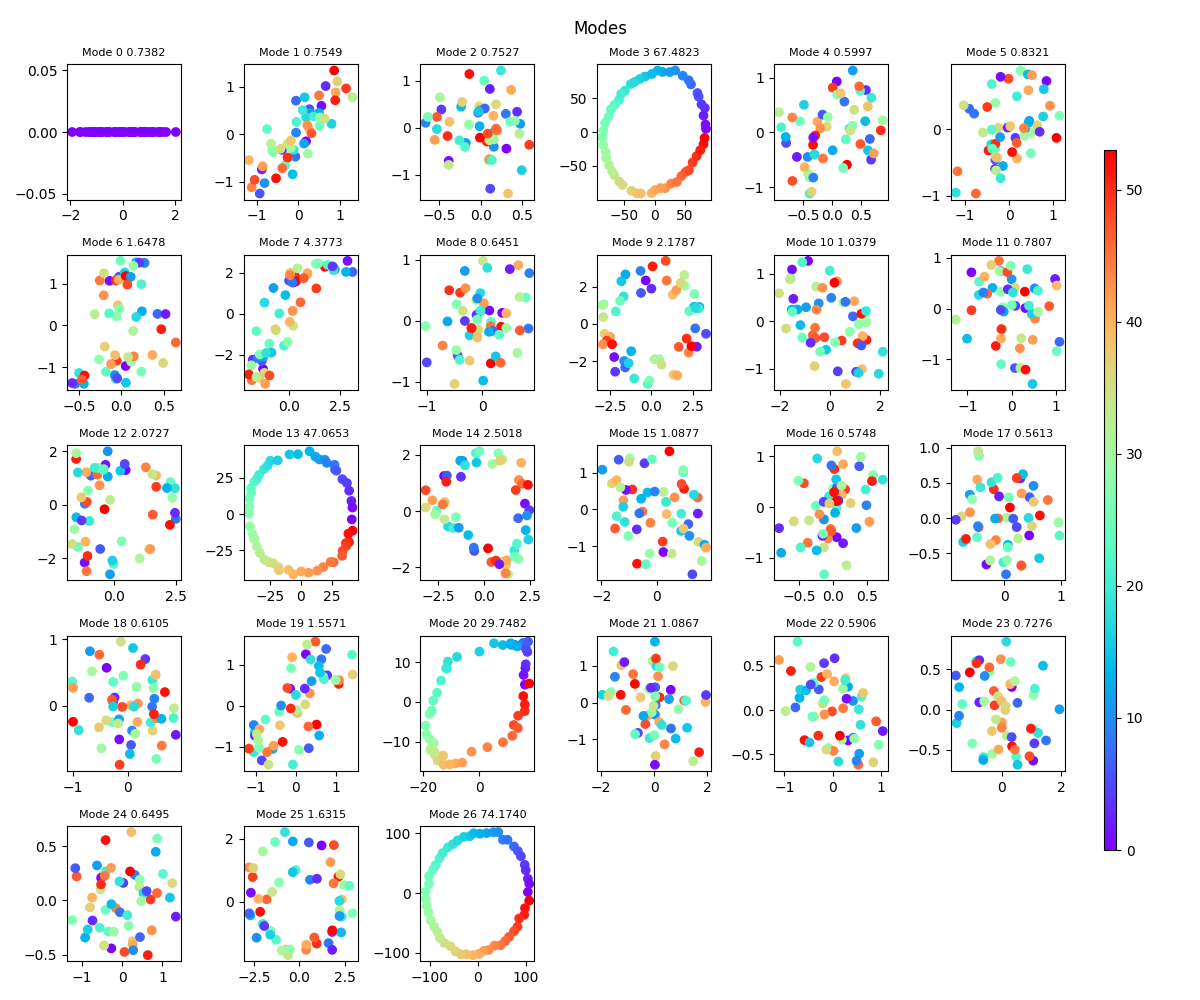
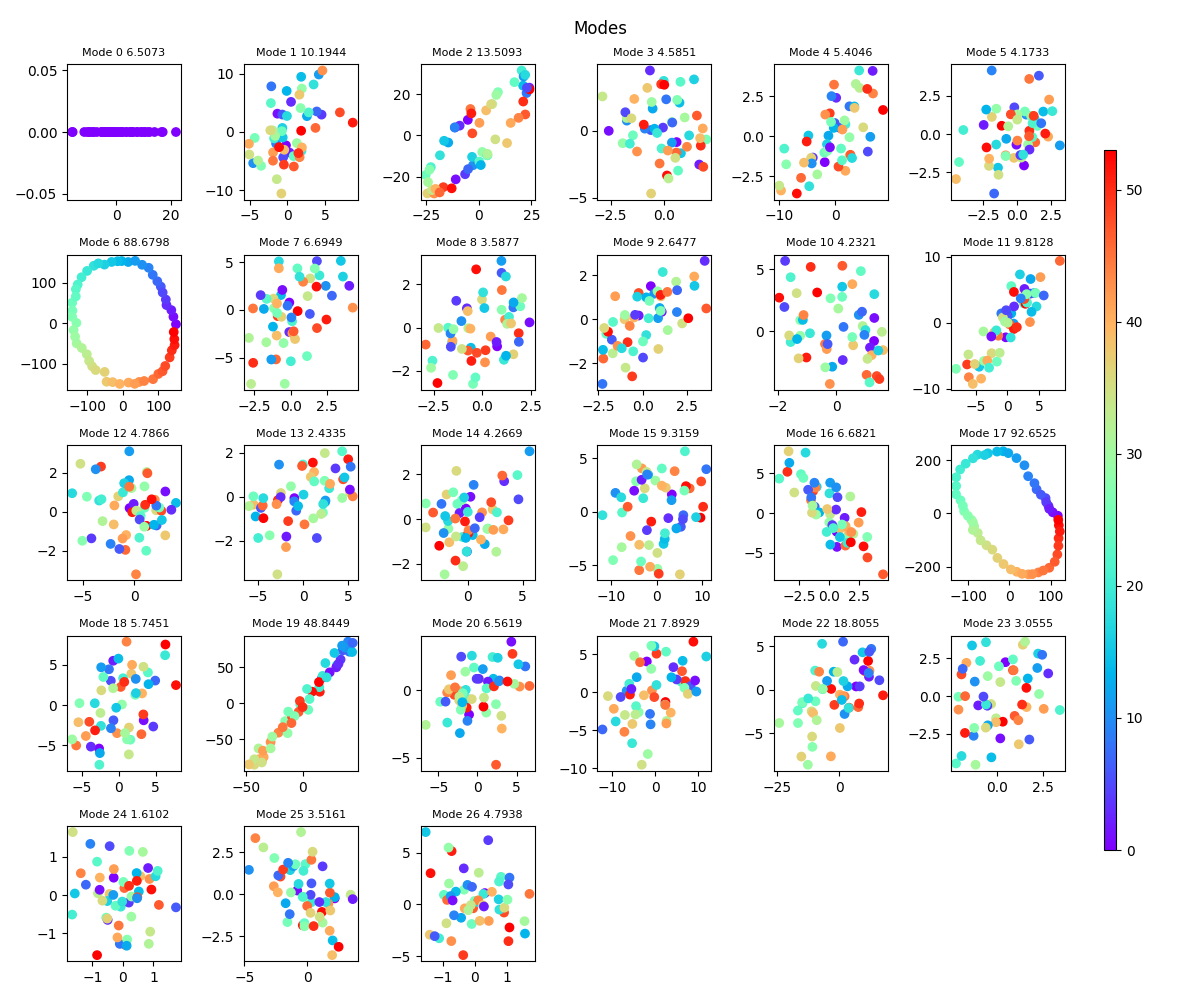
Experiment code

diff --git a/modular_addition/train.py b/modular_addition/train.py
@@ -193,47 +193,51 @@ def train(model, train_dataset, test_dataset, params):
     return model, mode_loss_history, magnitude_history
 
 
-def p_sweep_exp(p_values, params, psweep):
-    for p in p_values:
-        params.p = p
-        params.save_to_file(f"models/params_{params.get_suffix()}.json")
-        params.save_to_file(f"experiment_params/{psweep}/{p}_{params.run_id}.json")
-        model = MLP(params)
-        if params.use_random_dataset:
-            dataset = make_random_dataset(params.p, params.random_seed)
-        else:
-            dataset = make_dataset(params.p)
-        train_data, test_data = train_test_split(
-            dataset, params.train_frac, params.random_seed
-        )
-        model, mode_loss_history, magnitude_history = train(
-            model=model, train_dataset=train_data, test_dataset=test_data, params=params
-        )
-        t.save(model.state_dict(), f"models/model_{params.get_suffix()}.pt")
-        if params.do_viz_weights_modes:
-            viz_weights_modes(
-                model.embedding.weight.detach().cpu(),
-                params.p,
-                f"plots/final_embeddings_{params.get_suffix()}.png",
-            )
-        if len(mode_loss_history) > 0:
-            plot_mode_ablations(
-                mode_loss_history, f"plots/ablation_{params.get_suffix()}.png"
-            )
-        if len(magnitude_history) > 0:
-            plot_magnitudes(
-                magnitude_history,
-                params.p,
-                f"plots/magnitudes_{params.get_suffix()}.png",
-            )
-        if params.movie:
-            run_movie_cmd(params.get_suffix())
-
 def count_params(model):
     return sum(p.numel() for p in model.parameters() if p.requires_grad)
 
+
+def run_exp(params):
+    params.save_to_file(f"models/params_{params.get_suffix()}.json")
+    model = MLP(params)
+    if params.use_random_dataset:
+        dataset = make_random_dataset(params.p, params.random_seed)
+    else:
+        dataset = make_dataset(params.p)
+    train_data, test_data = train_test_split(
+        dataset, params.train_frac, params.random_seed
+    )
+    model, mode_loss_history, magnitude_history = train(
+        model=model, train_dataset=train_data, test_dataset=test_data, params=params
+    )
+    t.save(model.state_dict(), f"models/model_{params.get_suffix()}.pt")
+    if params.do_viz_weights_modes:
+        viz_weights_modes(
+            model.embedding.weight.detach().cpu(),
+            params.p,
+            f"plots/final_embeddings_{params.get_suffix()}.png",
+        )
+    if len(mode_loss_history) > 0:
+        plot_mode_ablations(
+            mode_loss_history, f"plots/ablation_{params.get_suffix()}.png"
+        )
+    if len(magnitude_history) > 0:
+        plot_magnitudes(
+            magnitude_history,
+            params.p,
+            f"plots/magnitudes_{params.get_suffix()}.png",
+        )
+    if params.movie:
+        run_movie_cmd(params.get_suffix())
+
+def p_sweep_exp(p_values, params, psweep):
+    for p in p_values:
+        params.p = p
+        params.save_to_file(f"experiment_params/{psweep}/{p}_{params.run_id}.json")
+        run_exp(params)
+
+
 if __name__ == "__main__":
-    p_values = [23, 29, 37, 41, 47, 53]
     params = ExperimentParams(
         linear_1_tied=False,
         tie_unembed=False,
@@ -242,17 +246,19 @@ if __name__ == "__main__":
         scale_embed=1.0,
         use_random_dataset=False,
         freeze_middle=False,
-        n_batches=10000,
-        n_save_model_checkpoints=0,
+        n_batches=1500,
+        n_save_model_checkpoints=25,
         lr=0.01,
         magnitude=False,
         ablation_fourier=False,
-        do_viz_weights_modes=False,
+        do_viz_weights_modes=True,
         batch_size=64,
-        num_no_weight_decay_steps=1000,
+        num_no_weight_decay_steps=0,
         embed_dim=8,
         hidden_size=32,
+        p = 53,
     )
     for run in range(5):
         params.run_id = run
-        p_sweep_exp(p_values, params, "psweep_repeats")
+        params.save_to_file(f"experiment_params/checkpoint_sweep/run_{params.run_id}.json")
+        run_exp(params)

diff --git a/modular_addition/lambda.py b/modular_addition/lambda.py
@@ -333,6 +333,44 @@ def plot_lambda_per_checkpoint(param_file, sgld_params, checkpoints=None):
 
     plt.close()
 
+def plot_lambda_per_checkpoint_multi_run(sgld_params, sweep_dir):
+    files = glob(f"{sweep_dir}/*.json")
+    results = defaultdict(dict)
+    for f in files:
+        experiment_params = ExperimentParams.load_from_file(f)
+        run_id = experiment_params.run_id
+        n_checkpoints = experiment_params.n_save_model_checkpoints
+        check_list = list(range(n_checkpoints))
+        for c in check_list:
+            lambda_hat, test_loss, train_loss = get_lambda(experiment_params, sgld_params, checkpoint_no=c)
+            results[run_id][c] = (lambda_hat, test_loss, train_loss)
+    
+    # Clear previous plots
+    plt.clf()
+    fig, ax1 = plt.subplots()
+    # Plot mean lambda, test loss, and train loss per checkpoint (mean over runs)
+    run_ids = sorted(list(results.keys()))
+    lambda_values = []
+    test_losses = []
+    train_losses = []
+    for c in check_list:
+        lambda_values.append(t.mean(t.tensor([run[c][0] for run in results.values()])))
+        test_losses.append(t.mean(t.tensor([run[c][1] for run in results.values()])))
+        train_losses.append(t.mean(t.tensor([run[c][2] for run in results.values()])))
+    plot_lambda_test_train_loss(ax1, check_list, "Checkpoint", lambda_values, test_losses, train_losses)
+
+    # Set title
+    title = "$\lambda$ vs checkpoint"
+    if sgld_params.restrict_to_orth_grad:
+        title += " (restrict orth dir)"
+    if sgld_params.n_multiplier != 1:
+        title += f" (n*={sgld_params.n_multiplier})"
+    ax1.set_title(title)
+
+    # Save the figure
+    fig.savefig(
+        f'plots/lambda_vs_checkpoint_{datetime.now().strftime("%Y%m%d_%H%M%S")}_restrictorth{sgld_params.restrict_to_orth_grad}_meanover_{len(run_ids)}.png'
+    )
 
 def plot_lambda_per_p(sgld_params, p_sweep_dir, resample=False):
     files = glob(f"{p_sweep_dir}/*.json")
@@ -350,26 +388,27 @@ def plot_lambda_per_p(sgld_params, p_sweep_dir, resample=False):
         experiment_params.test_loss = test_loss.item()
         experiment_params.train_loss = train_loss.item()
         experiment_params.save_to_file(f)
+    print("Extracted results", results)
         
     # Plot average lambda, test loss, and train loss per p (mean over runs)
-    plt.clf()
     fig, ax1 = plt.subplots()
-    p_values = []
+    p_values = sorted(list(results.keys()))
     lambda_values = []
     test_losses = []
     train_losses = []
-    for p, run_results in results.items():
+    for p in p_values:
         p_values.append(p)
-        lambda_values.append(t.mean([r[0] for r in run_results.values()]))
-        test_losses.append(t.mean([r[1] for r in run_results.values()]))
-        train_losses.append(t.mean([r[2] for r in run_results.values()]))
+        lambda_values.append(t.mean(t.tensor([run[0] for run in results[p].values()])))
+        test_losses.append(t.mean(t.tensor([run[1] for run in results[p].values()])))
+        train_losses.append(t.mean(t.tensor([run[2] for run in results[p].values()])))
     plot_lambda_test_train_loss(ax1, p_values, "p", lambda_values, test_losses, train_losses)
     fig.savefig(
         f'plots/lambda_vs_p_{datetime.now().strftime("%Y%m%d_%H%M%S")}.png'
     )
+    print("Saved plot 1")
 
     # Plot lambda (each run is a different color)
-    run_ids = list(results[p_values[0]].keys())
+    run_ids = sorted(list(results[p_values[0]].keys()))
     plt.clf()
     fig, ax1 = plt.subplots()
     for run_id in run_ids:
@@ -384,6 +423,7 @@ def plot_lambda_per_p(sgld_params, p_sweep_dir, resample=False):
     fig.savefig(
         f'plots/lambda_vs_p_runs_{datetime.now().strftime("%Y%m%d_%H%M%S")}.png'
     )
+    print("Saved plot 2")
 
 
 if __name__ == "__main__":
